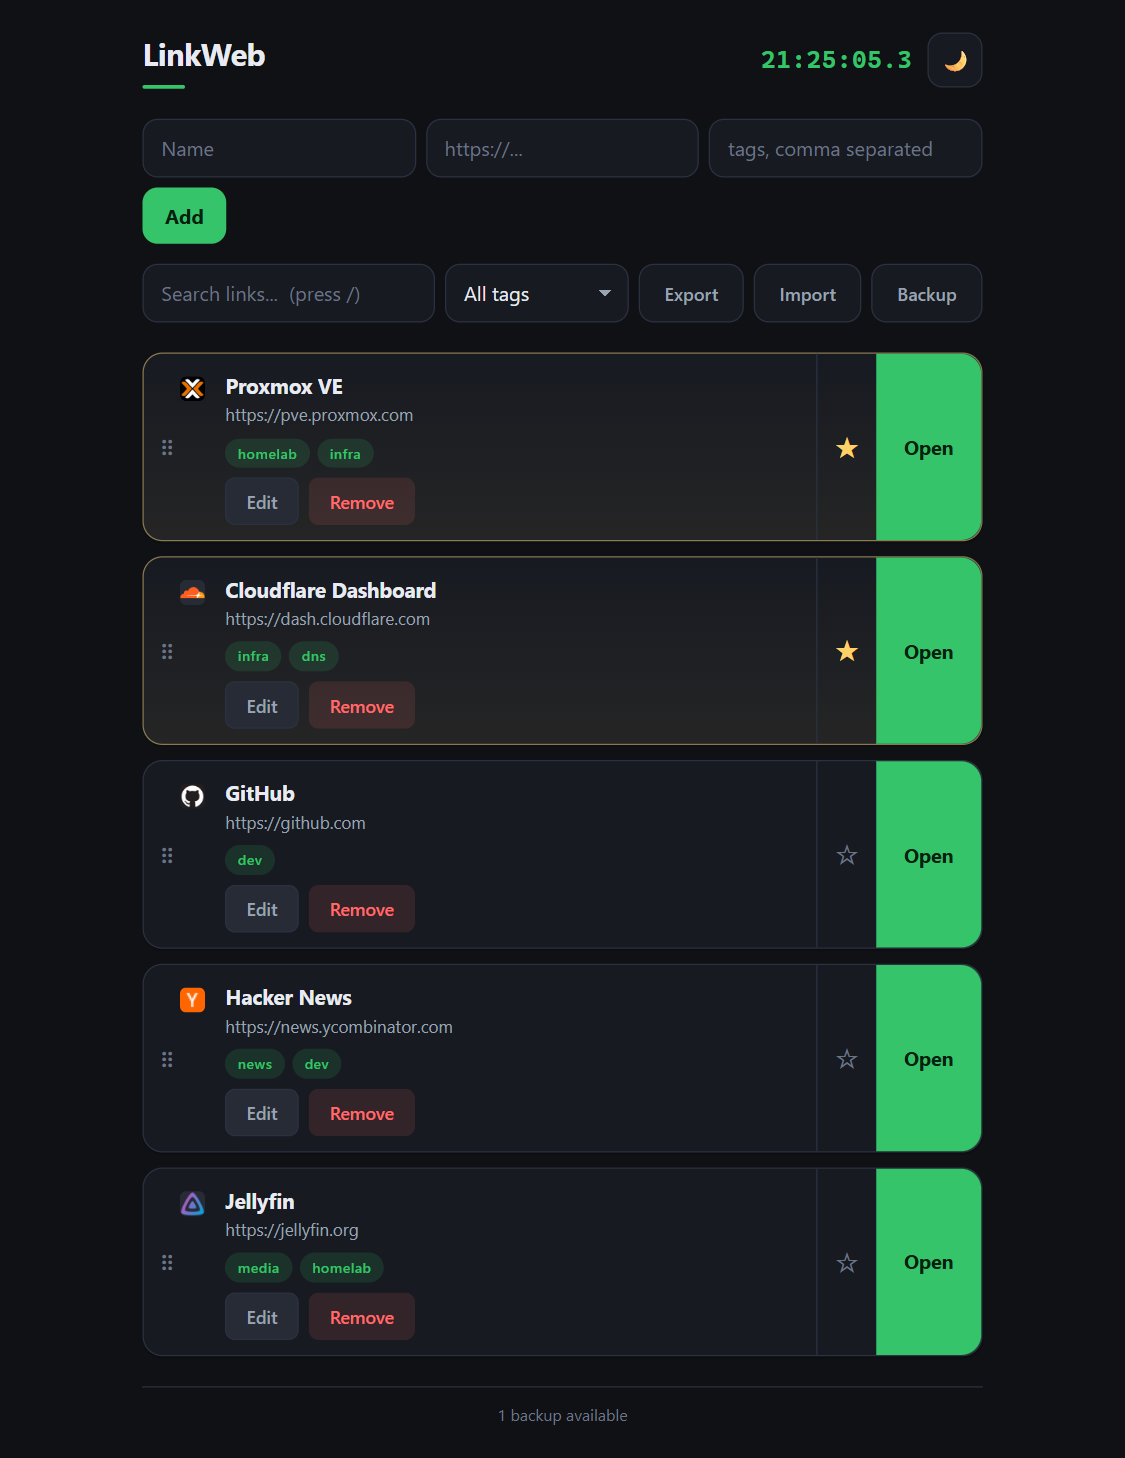
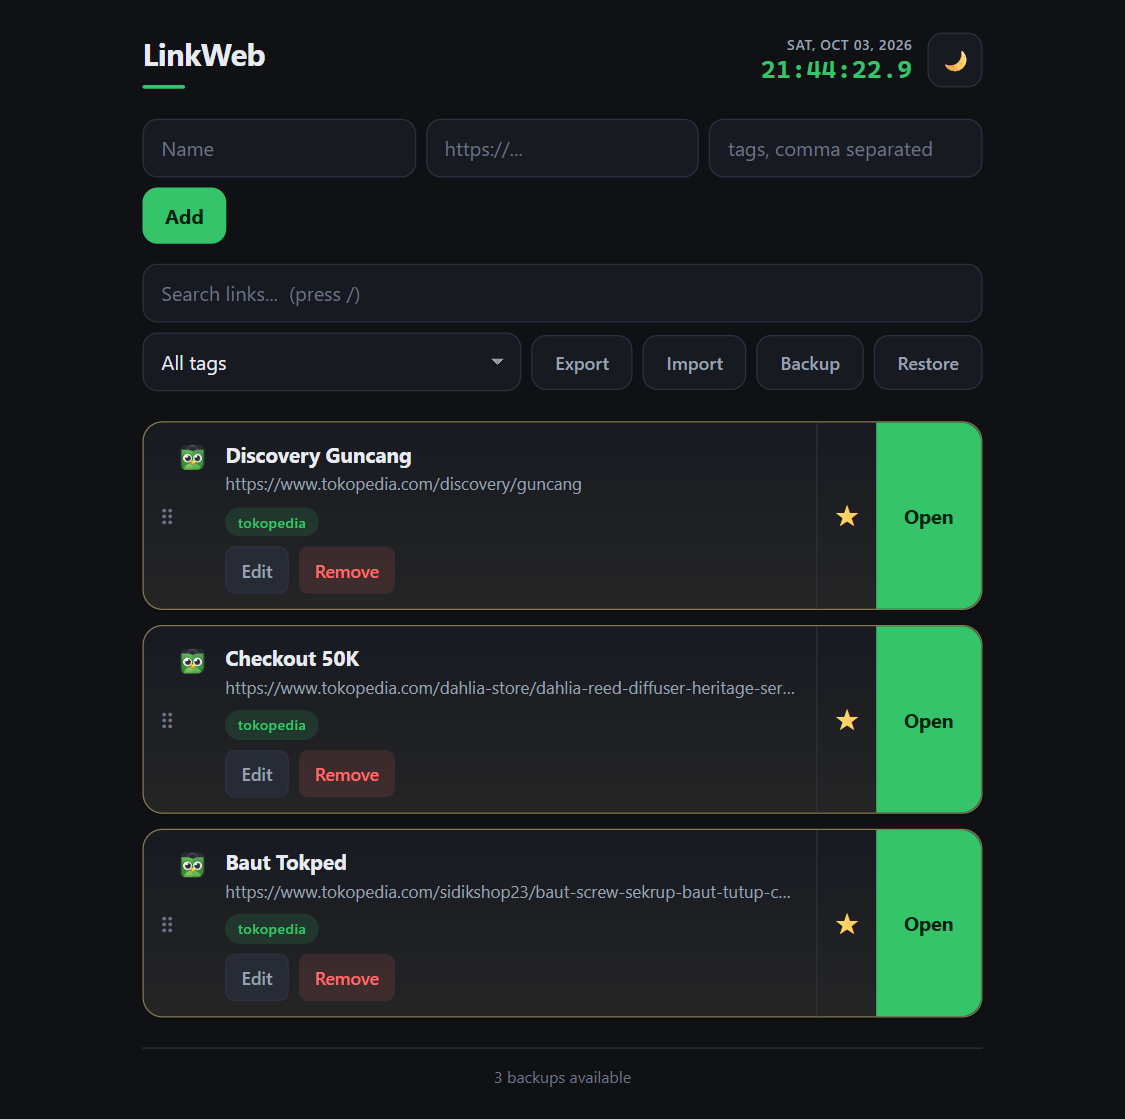
fix responsive layout across all resolutions
Rewrote the responsive section as one mobile-first set of breakpoints
(380 / 560 / 900) with no gaps and no overlapping min/max rules:

- the toolbar now uses a single grid below 560px and flex above it;
  previously a leftover grid-column declaration and a 480px min/max
  collision left orphaned buttons and full-width buttons on foldables
- verified on iPhone 16 Pro/Pro Max, Galaxy Z Fold 6 and 5 (cover and
  open), Pixel 9 Pro Fold, S24 Ultra, iPad, landscape and desktops:
  no horizontal overflow and nothing clipped from 280px to 1920px
- toolbar rows are now consistent per range: 2x2 actions on phones,
  filter plus four actions in one row from 560px up

Also render the clock and date immediately on load instead of waiting
for the first interval tick, and refresh the README screenshots.

diff --git a/static/style.css b/static/style.css
@@ -216,7 +216,6 @@ h1::after {
 }
 
 .add-form input {
-    flex: 1 1 100%;
     min-height: 44px;
 }
 
@@ -236,7 +235,6 @@ h1::after {
 }
 
 .add-form button {
-    flex: 1 1 100%;
     min-height: 44px;
     padding: 12px 18px;
     background: var(--accent);
@@ -261,20 +259,11 @@ h1::after {
 
 /* --- Toolbar ------------------------------------------------------------ */
 
-.toolbar {
-    display: flex;
-    flex-wrap: wrap;
-    gap: var(--space-2);
-    margin-bottom: var(--space-5);
-}
-
 .search {
-    flex: 1 1 100%;
     min-height: 44px;
 }
 
 .tag-filter {
-    flex: 1 1 100%;
     min-height: 44px;
     cursor: pointer;
     appearance: none;
@@ -324,12 +313,6 @@ h1::after {
 
 .menu > .btn-tool {
     width: 100%;
-}
-
-@media (min-width: 480px) {
-    .menu {
-        flex: 0 0 auto;
-    }
 }
 
 .menu-panel {
@@ -775,112 +758,88 @@ label:focus-within {
     }
 }
 
-/* --- Responsive --------------------------------------------------------- */
+/* --- Responsive ---------------------------------------------------------
+   Mobile first. A single set of min-width steps keeps every width covered
+   with no gaps and no overlapping max/min rules:
+     base        < 380px  (Galaxy Fold cover, tiny phones)
+     >= 380px             comfortable phones (iPhone 16, Z Fold 6 cover, S24)
+     >= 560px             tablets, foldables open, landscape phones
+     >= 900px             wide desktops
+   ------------------------------------------------------------------------ */
 
-@media (min-width: 480px) {
-    .add-form input {
-        flex: 1 1 0%;
-    }
-
-    .add-form input[name="tags"] {
-        flex: 1 1 0%;
-    }
-
-    .add-form button {
-        flex: 0 0 auto;
-    }
-
-    .search {
-        flex: 2 1 220px;
-    }
-
-    .tag-filter {
-        flex: 1 1 140px;
-    }
+/* Base (narrow phones): form stacks, toolbar actions pair up 2x2 so no
+   button is ever orphaned on its own row. */
+.add-form input {
+    flex: 1 1 100%;
 }
 
-/* From tablet up, keep the toolbar on two tidy rows: search across the top,
-   then the filter and four actions together underneath. */
-@media (min-width: 620px) {
-    .toolbar {
-        align-items: center;
-    }
-
-    .search {
-        flex: 1 1 100%;
-    }
-
-    .tag-filter {
-        flex: 1 1 auto;
-    }
-
-    .btn-tool {
-        flex: 0 0 auto;
-        padding: 10px 18px;
-    }
-
-    .menu {
-        flex: 0 0 auto;
-        min-width: 0;
-    }
-
-    .menu > .btn-tool {
-        width: auto;
-    }
+.add-form button {
+    flex: 1 1 100%;
 }
 
-/* Narrow phones: the row has five competing elements, so shrink every
-   fixed-width one and let the middle column keep the space. The four
-   toolbar actions pair up into an even 2x2 block instead of leaving an
-   orphan on its own row. */
-@media (max-width: 480px) {
-    .toolbar .btn-tool,
-    .toolbar .menu {
-        flex: 1 1 calc(50% - var(--space-2));
-    }
-
-    .menu > .btn-tool {
-        width: 100%;
-    }
-
-    .drag-handle {
-        padding: 0 2px 0 var(--space-2);
-    }
-
-    .favicon {
-        display: none;
-    }
-
-    .link-left {
-        padding: var(--space-3);
-    }
-
-    .link-actions {
-        flex-wrap: wrap;
-    }
-
-    .btn-edit,
-    .btn-delete {
-        flex: 1 1 auto;
-        min-width: 0;
-        padding: 8px 12px;
-    }
-
-    .btn-open {
-        min-width: 60px;
-        padding: 10px 12px;
-        font-size: 0.85rem;
-    }
-
-    .btn-fav {
-        min-width: 40px;
-        font-size: 1.35rem;
-    }
+.toolbar {
+    display: grid;
+    grid-template-columns: 1fr 1fr;
+    gap: var(--space-2);
+    margin-bottom: var(--space-5);
+    align-items: stretch;
 }
 
-/* Very narrow (Galaxy Fold 280px and similar): stack the action buttons on
-   their own line so nothing gets clipped. */
-@media (max-width: 360px) {
+.search,
+.tag-filter {
+    grid-column: 1 / -1;
+    min-height: 44px;
+    width: 100%;
+}
+
+.toolbar .btn-tool,
+.toolbar .menu {
+    width: 100%;
+    min-width: 0;
+}
+
+.menu > .btn-tool {
+    width: 100%;
+}
+
+/* Phone layout for a link card: five columns compete for space, so the
+   favicon is dropped and the fixed columns shrink. */
+.drag-handle {
+    padding: 0 2px 0 var(--space-2);
+}
+
+.favicon {
+    display: none;
+}
+
+.link-left {
+    padding: var(--space-3);
+}
+
+.link-actions {
+    flex-wrap: wrap;
+}
+
+.btn-edit,
+.btn-delete {
+    flex: 1 1 auto;
+    min-width: 0;
+    padding: 8px 12px;
+}
+
+.btn-open {
+    min-width: 60px;
+    padding: 10px 12px;
+    font-size: 0.85rem;
+}
+
+.btn-fav {
+    min-width: 40px;
+    font-size: 1.35rem;
+}
+
+/* Very narrow (Galaxy Fold cover screen and similar). */
+@media (max-width: 379px) {
     h1 {
         font-size: 1.3rem;
     }
@@ -935,8 +894,98 @@ label:focus-within {
     }
 }
 
-@media (min-width: 768px) {
+/* From 380px up the add form can share one row and the toolbar keeps its
+   2x2 action block, now with breathing room. */
+@media (min-width: 380px) {
+    .add-form input {
+        flex: 1 1 0%;
+    }
+
+    .add-form button {
+        flex: 0 0 auto;
+    }
+
+    .toolbar .btn-tool,
+    .toolbar .menu {
+        flex: initial;
+    }
+}
+
+/* From 560px (tablets, open foldables, landscape phones) the toolbar
+   becomes two clean rows: search across the top, then the filter and the
+   four actions side by side. Cards get their favicon back. */
+@media (min-width: 560px) {
+    .toolbar {
+        display: flex;
+        flex-wrap: wrap;
+        align-items: center;
+    }
+
+    .search {
+        grid-column: auto;
+        flex: 1 1 100%;
+    }
+
+    .tag-filter {
+        grid-column: auto;
+        flex: 1 1 auto;
+    }
+    .toolbar .btn-tool {
+        flex: 0 0 auto;
+        width: auto;
+        padding: 10px 18px;
+    }
+
+    .toolbar .menu {
+        flex: 0 0 auto;
+        width: auto;
+    }
+
+    .menu > .btn-tool {
+        width: auto;
+    }
+
+    .favicon {
+        display: block;
+    }
+
+    .link-left {
+        padding: var(--space-3) var(--space-4);
+    }
+
+    .btn-edit,
+    .btn-delete {
+        flex: 0 0 auto;
+        min-height: 38px;
+    }
+
+    .btn-open {
+        min-width: 84px;
+        padding: 12px 22px;
+        font-size: 0.98rem;
+    }
+
+    .btn-fav {
+        min-width: 48px;
+        font-size: 1.5rem;
+    }
+
+    .drag-handle {
+        padding: 0 var(--space-1) 0 var(--space-3);
+    }
+}
+
+/* Wide desktops: give the list a little more presence. */
+@media (min-width: 900px) {
     .container {
         padding: var(--space-5);
+    }
+
+    .search {
+        flex: 1 1 100%;
+    }
+
+    .tag-filter {
+        flex: 1 1 220px;
     }
 }

diff --git a/templates/index.html b/templates/index.html
@@ -19,8 +19,8 @@
             <h1>LinkWeb</h1>
             <div class="header-right">
                 <div class="clock-block">
-                    <div id="date" class="date">----</div>
-                    <div id="clock" class="clock">--:--:--</div>
+                    <div id="date" class="date">—</div>
+                    <div id="clock" class="clock">--:--.--</div>
                 </div>
                 <button id="theme-toggle" class="btn-icon" type="button" title="Toggle theme (t)" aria-label="Toggle theme">🌙</button>
             </div>
@@ -322,6 +322,7 @@
         }
 
         syncClock();
+        updateClock();
         setInterval(syncClock, 30000);
         setInterval(updateClock, 100);
 
